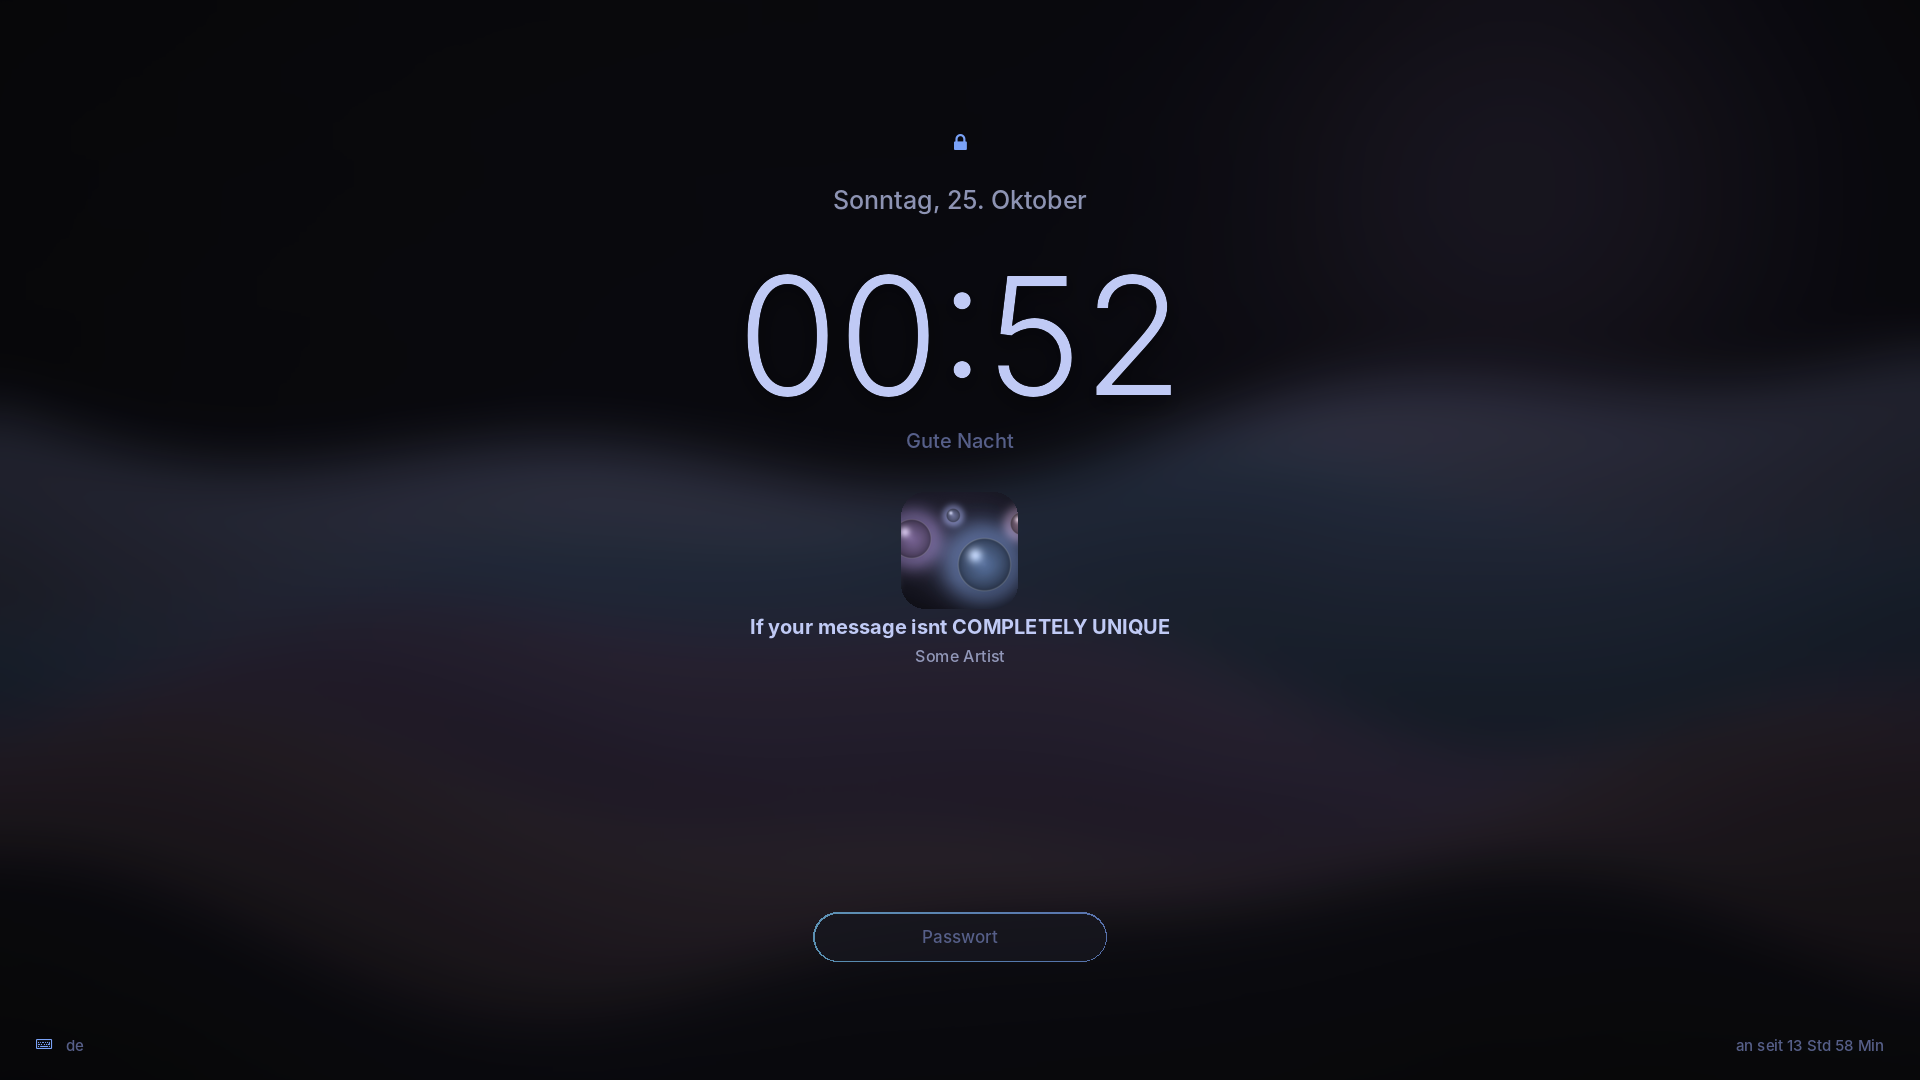
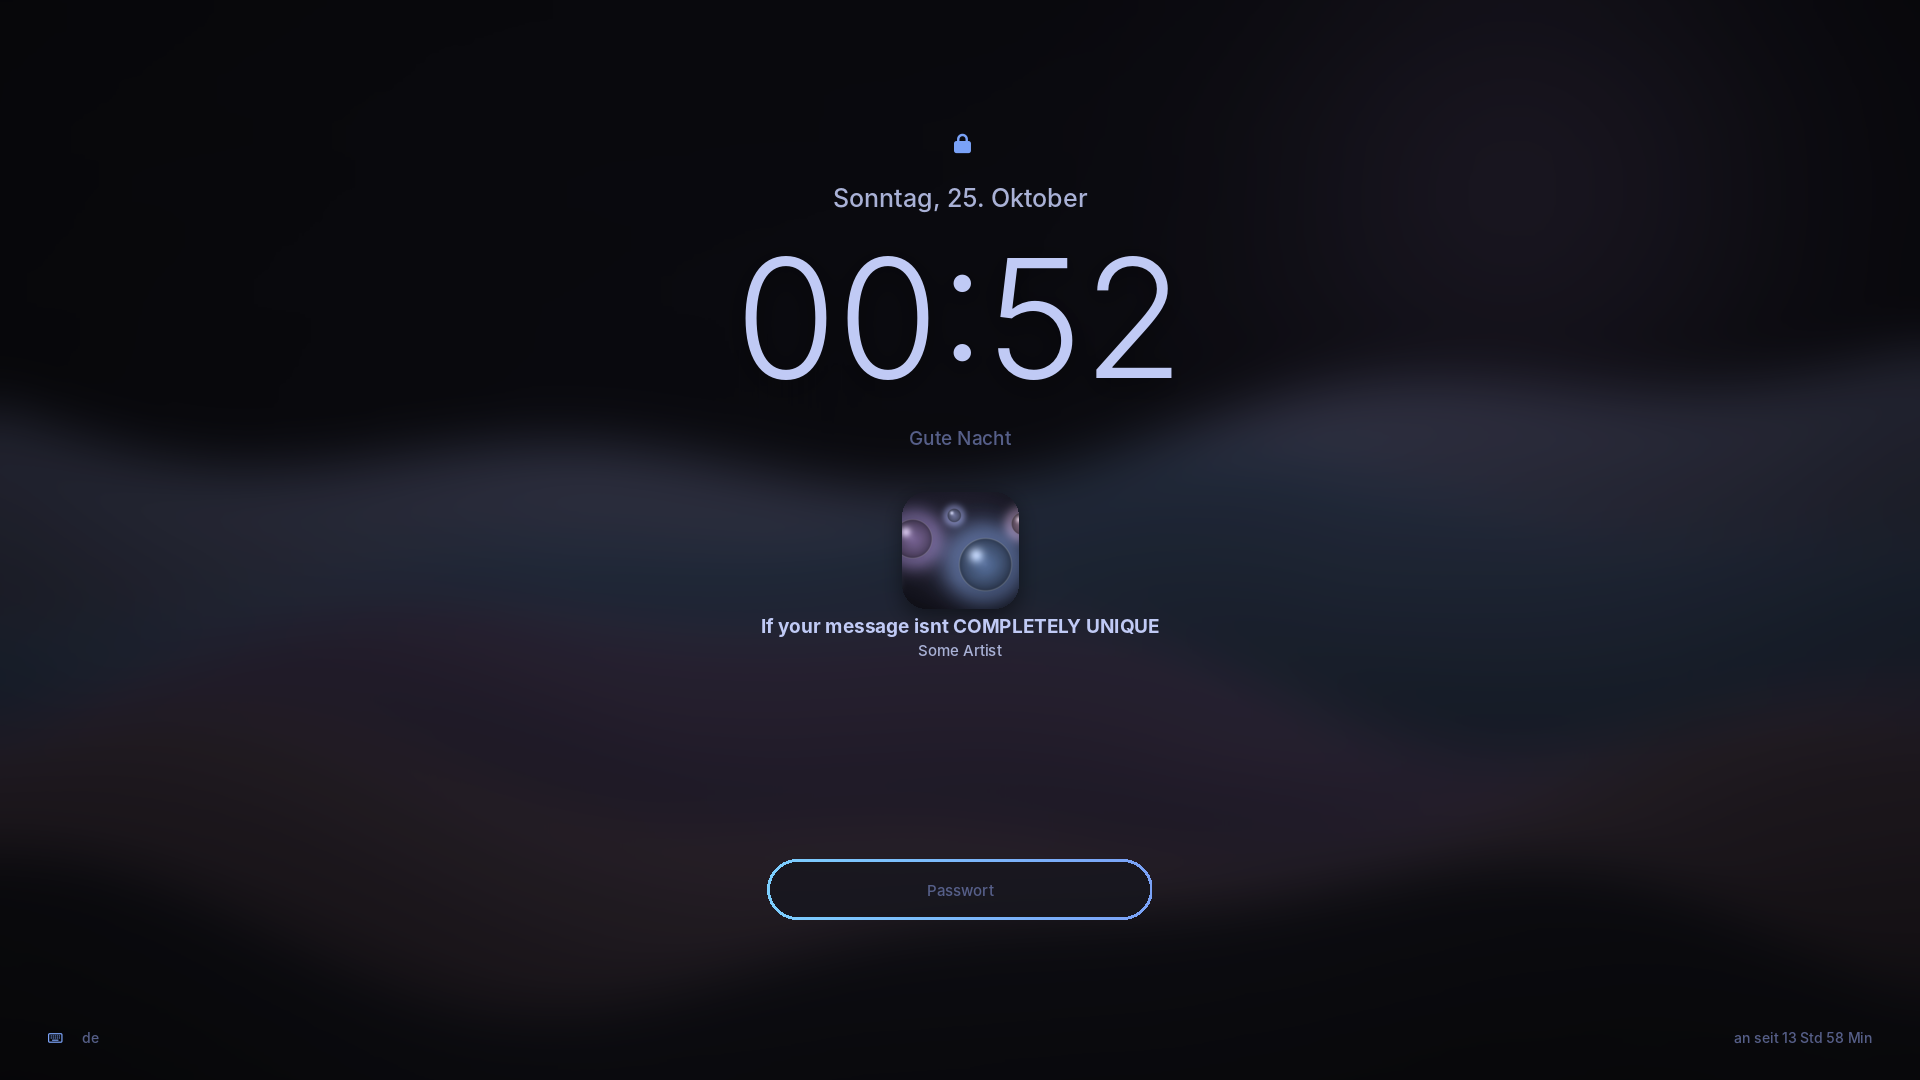
Showcase: fixed Dynamic Island in desktop preview, lock screen variants collage
- preview-desktop: island without the dark outer ring
- lockscreen-variants: 4 customized lock screens (accent, clock font/size, blur, elements)
- README: lock screen section with default + variants

Claude-Session: https://claude.ai/code/session_01F1X445X4699D2GgfDiKJYN

diff --git a/README.md b/README.md
@@ -55,10 +55,13 @@ Bug fixes land on `debug` first. Test them with `glassy --debug`; once they work
 
 ### Lock screen
 
-Default (left) and customized in SUPER+I -> Sperrbildschirm (accent pink, huge bold clock, no music):
+Default look:
 
 ![Lock screen](assets/lockscreen.png)
-![Lock screen customized](assets/lockscreen-custom.png)
+
+Everything is customizable in SUPER+I -> Sperrbildschirm. Four examples:
+
+![Lock screen variants](assets/lockscreen-variants.png)
 
 Lock screen options: accent color, clock size and font, brightness, blur, and toggles for lock icon,
 date, greeting, now playing, keyboard layout/uptime, fading password field, clock on other monitors.
@@ -192,6 +195,7 @@ auf `main`, und `glassy --update` bringt dich wieder auf den stabilen Stand.
 - **Sperrbildschirm:** grosse Uhr, deutsches Datum, laufende Musik, Passwort-Pille. Kein Name,
   kein Profilbild. In SUPER+I -> Sperrbildschirm anpassbar: Akzentfarbe, Uhrgroesse und -schrift,
   Helligkeit, Unschaerfe und welche Elemente angezeigt werden.
+  Beispiele: siehe Bilder oben unter "Lock screen".
 - **Wallpaper:** 5 eigene 4K-Wallpaper, Auswahl mit Vorschau, weiche Uebergaenge.
 - **Benachrichtigungen:** SwayNC im Glas-Look (auch Discord mit Bildern/Aktionen).
 
